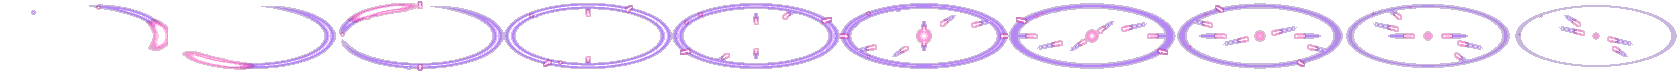
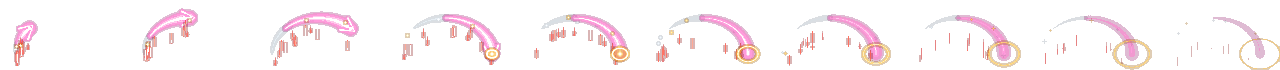
Tempest: a single huge energy arrow sweeping out ahead (#398)
The oval slash becomes one broad pink crescent with a white-hot core and
arrowhead that arcs up out of you and lands ahead, fading to a pale mist,
with thin red spikes raining behind it, white/gold stars along the arc and
a gold ring burst where it lands. The effect now faces your way.

diff --git a/src/fxsprites.ts b/src/fxsprites.ts
@@ -165,40 +165,58 @@ function spikesAnim(): FxSheet {
   }, 0.4);
 }
 
-/** Tempest: a large oval slash cuts all the way round you, then shots fire
- *  from the oval inward at you, one after another round the ring. Origin at
- *  your feet (the oval is centred on your middle). */
-function tempestAnim(front: RampName = 'pink', tail: RampName = 'purple'): FxSheet {
-  const RX = 78, RY = 30, W = RX * 2 + 12, H = RY * 2 + 12, cx = W / 2, cy = H / 2, by = cy + 12;
-  const n = 10, SHOTS = 12, oval = (a: number, k = 1): [number, number] => [cx + Math.cos(a) * RX * k, cy + Math.sin(a) * RY * k];
-  return anim(W, H, cx, by, n, (L, f) => {
-    const R = rng(61 + f);
-    // the slash: one fast turn round the oval (frames 0-2), a bright leading
-    // edge with the cut it leaves behind, which lingers as a ring and fades
-    const start = -Math.PI / 2, head = start + Math.min(1, (f + 1) / 3) * Math.PI * 2;
-    if (f < 3) {
-      arc(L, tail, cx, cy, RX, RY, 2, 0.9, start, head - 0.05);
-      arc(L, front, cx, cy, RX, RY, 3.4, 1.3, head - 1.1, head);
-      arc(L, front, cx, cy, RX * 0.94, RY * 0.9, 1.4, 0.8, head - 0.8, head - 0.1);
+/** Tempest: one huge energy arrow sweeps up out of you and arcs over to
+ *  strike ahead. Its trail is a broad pink crescent with a white-hot core
+ *  that fades to a pale mist; a rain of thin red spikes falls behind it,
+ *  white and gold stars glint along the arc, and a gold ring bursts where
+ *  it lands. Faces right; origin at your feet. */
+function tempestAnim(): FxSheet {
+  const BACK = 16, RX = 46, RY = 36, MID = 12, W = BACK + RX * 2 + 20, H = RY + MID + 22, by = H - 4, n = 10;
+  const cx = BACK + RX, cy = by - MID, FLY = 4; // the arc's centre; frames the arrow takes to land
+  // the arrow's path: half an oval from your middle, over the top, down ahead
+  const path = (t: number): [number, number] => {
+    const a = Math.PI + t * Math.PI;
+    return [cx + Math.cos(a) * RX, cy + Math.sin(a) * RY];
+  };
+  return anim(W, H, BACK, by, n, (L, f) => {
+    const R = rng(61 + f), head = Math.min(1, (f + 1) / FLY);
+    const fade = f < FLY ? 1 : 1 - (f - FLY + 1) / (n - FLY + 1);
+    // the crescent: thick and white-hot behind the head, thinning back
+    // along the arc to a pale mist at its tail
+    const tail = Math.max(0, head - 0.75), STEPS = 24;
+    for (let k = 0; k < STEPS; k++) {
+      const t0 = tail + (head - tail) * (k / STEPS), t1 = tail + (head - tail) * ((k + 1) / STEPS), s = k / STEPS;
+      const [x0, y0] = path(t0), [x1, y1] = path(t1);
+      if (s < 0.3) L.line('dust', x0, y0, x1, y1, 1 + s * 12, 1 + s * 12, 0.45 * fade);
+      else {
+        L.line('pink', x0, y0, x1, y1, 1 + s * 8, 1 + s * 8, (0.6 + s * 0.5) * fade);
+        L.line('pink', x0, y0, x1, y1, 0.5 + s * 2.2, 0.5 + s * 2.2, (1.0 + s * 0.6) * fade);
+      }
     }
-    const ring = f < 3 ? 0 : 1 - (f - 3) / (n - 3);
-    if (ring > 0) L.ring(tail, cx, cy, RX, RY, 2, 1.0 * ring);
-    // the shots: each leaves its own point on the oval in turn and streaks
-    // inward toward you over three frames, a pink head on a purple tail
-    for (let i = 0; i < SHOTS; i++) {
-      const born = 2 + (i % 6), t = (f - born) / 3;
-      if (t < 0 || t > 1) continue;
-      const a = -Math.PI / 2 + (i / SHOTS) * Math.PI * 2;
-      const [hx, hy] = oval(a, 1 - t * 0.8), [mx, my] = oval(a, 1.1 - t * 0.8), [sx, sy] = oval(a, Math.min(1, 1.35 - t * 0.8));
-      L.line(tail, sx, sy, mx, my, 0.4, 1.3, 0.95);
-      L.line(front, mx, my, hx, hy, 1.3, 1.6, 1.2);
-      L.spark(front, hx, hy, 1.1, true);
+    // the arrowhead, while it flies: a white-hot point down the line of flight
+    if (f < FLY) {
+      const [hx, hy] = path(head), [px, py] = path(head - 0.04), d = Math.hypot(hx - px, hy - py) || 1;
+      const ux = (hx - px) / d, uy = (hy - py) / d;
+      L.line('pink', hx - ux * 8 - uy * 7, hy - uy * 8 + ux * 7, hx + ux * 5, hy + uy * 5, 2, 0.6, 1.4);
+      L.line('pink', hx - ux * 8 + uy * 7, hy - uy * 8 - ux * 7, hx + ux * 5, hy + uy * 5, 2, 0.6, 1.4);
+      L.disc('pink', hx, hy, 3.5, 1.6);
     }
-    // where the shots meet: a pulse at your middle
-    if (f >= 5) L.disc(front, cx, cy, 8 - (f - 5), 1.1 - (f - 5) * 0.15);
-    for (let i = 0; i < 4; i++) {
-      const [sx, sy] = oval(head - R() * 3);
-      L.spark(i % 2 ? tail : front, sx + R() * 4 - 2, sy + R() * 4 - 2, 0.85 * (f < 3 ? 1 : ring), i === 0);
+    // the rain of thin red spikes falling under the arc behind the arrow
+    for (let i = 0; i < 12; i++) {
+      const t = head * (0.1 + 0.9 * R()), [sx, sy] = path(t), drop = 8 + R() * 12 + f * 2;
+      if (sy + drop > by) continue;
+      L.line('red', sx, sy + drop - 10, sx, sy + drop, 0.3, 0.9, 1.0 * fade);
+    }
+    // where it lands: a gold ring bursting out
+    if (f >= FLY - 1) {
+      const g = (f - FLY + 1) / (n - FLY), [ix, iy] = path(1);
+      L.ring('gold', ix, iy, 5 + g * 15, 4 + g * 11, 1.6 - g * 0.8, 1.2 * (1 - g * 0.7));
+      if (f === FLY - 1 || f === FLY) L.disc('gold', ix, iy, 4, 1.2);
+    }
+    // stars glinting along the arc
+    for (let i = 0; i < 5; i++) {
+      const [sx, sy] = path(head * R());
+      L.spark(i % 2 ? 'gold' : 'dust', sx + R() * 6 - 3, sy + R() * 6 - 3, 1.0 * fade, i < 2);
     }
   });
 }

diff --git a/src/skillcasts.ts b/src/skillcasts.ts
@@ -181,7 +181,7 @@ function plungingVolley(r: SkillRank): void {
   });
 }
 
-/** Tempest: you vanish as an oval of energy sweeps up and around you,
+/** Tempest: you vanish as a huge energy arrow sweeps up and arcs out ahead,
  *  striking every enemy in a wide radius (nearest first). */
 function tempest(r: SkillRank): void {
   pose('shoot', 'r');
@@ -190,7 +190,7 @@ function tempest(r: SkillRank): void {
   sfx.tempest();
   const mx = player.x + player.face * 8, my = player.y + 13;
   const tg = nearest(player.x, player.y + player.h / 2, P.TEMPEST_R * 2, P.TEMPEST_R * 2, r.targets);
-  game.fx.push({ type: 'tempest', x: player.x, y: player.y + player.h, t: FX_DUR.tempest, follow: true });
+  game.fx.push({ type: 'tempest', x: player.x, y: player.y + player.h, t: FX_DUR.tempest, face: player.face, follow: true });
   netShot(mx, my, player.face, P.TEMPEST_R);
   // each enemy the storm passes takes the full hit count (8, doubled by Twin
   // Echoes), not one: the first lands as the bolt reaches it, the rest follow

diff --git a/src/fxbaked.ts b/src/fxbaked.ts
@@ -44,7 +44,7 @@ export const BAKED: Record<string, BakedSheet> = {
   muzzle: { src: muzzle, w: 22, h: 18, n: 6, ox: 1, oy: 9 },
   arrow: { src: arrow, w: 26, h: 7, n: 1, ox: 24, oy: 3.5 },
   spikes: { src: spikes, w: 88, h: 96, n: 10, ox: 4, oy: 92 },
-  tempest: { src: tempest, w: 168, h: 72, n: 10, ox: 84, oy: 48 },
+  tempest: { src: tempest, w: 128, h: 70, n: 10, ox: 16, oy: 66 },
   spin: { src: spin, w: 98, h: 78, n: 8, ox: 49, oy: 51 },
   cyclone: { src: cyclone, w: 36, h: 40, n: 8, ox: 18, oy: 20 },
   levelUp: { src: levelUp, w: 44, h: 70, n: 10, ox: 22, oy: 66 },
